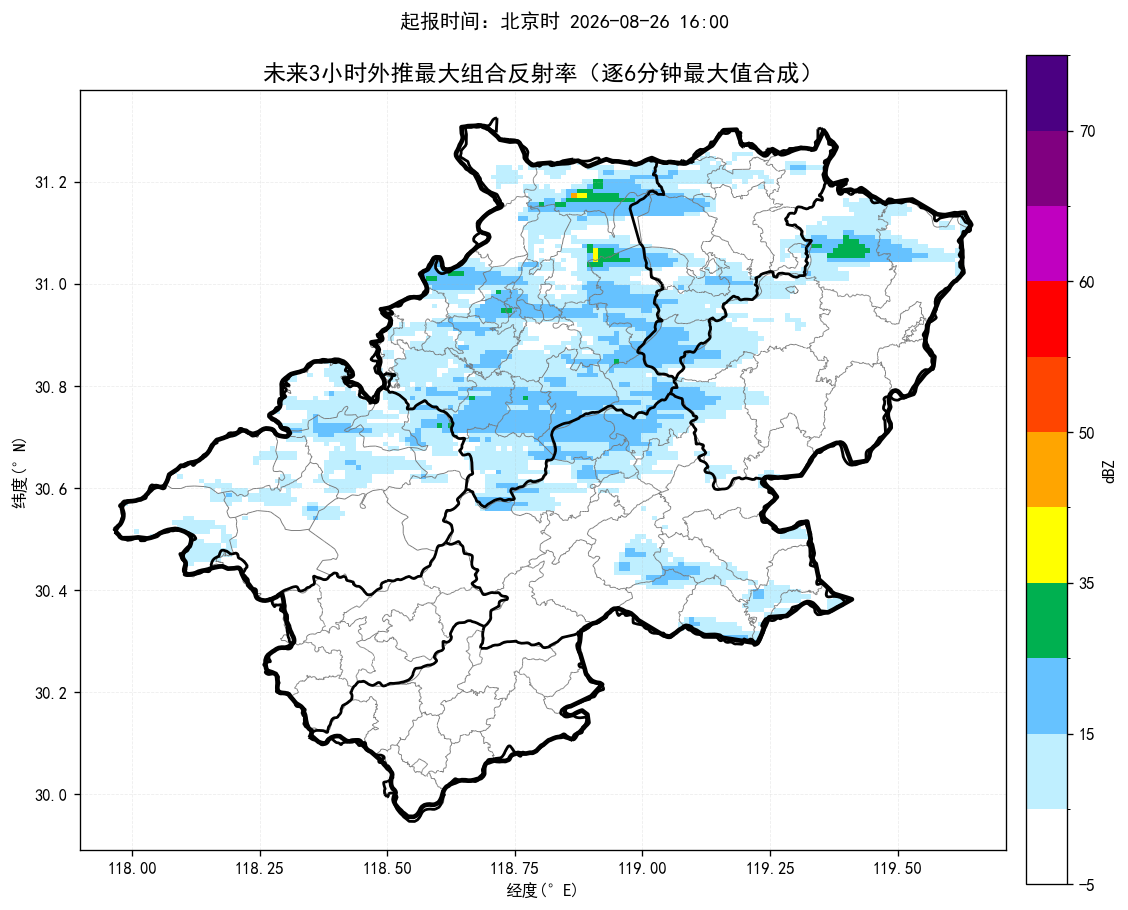
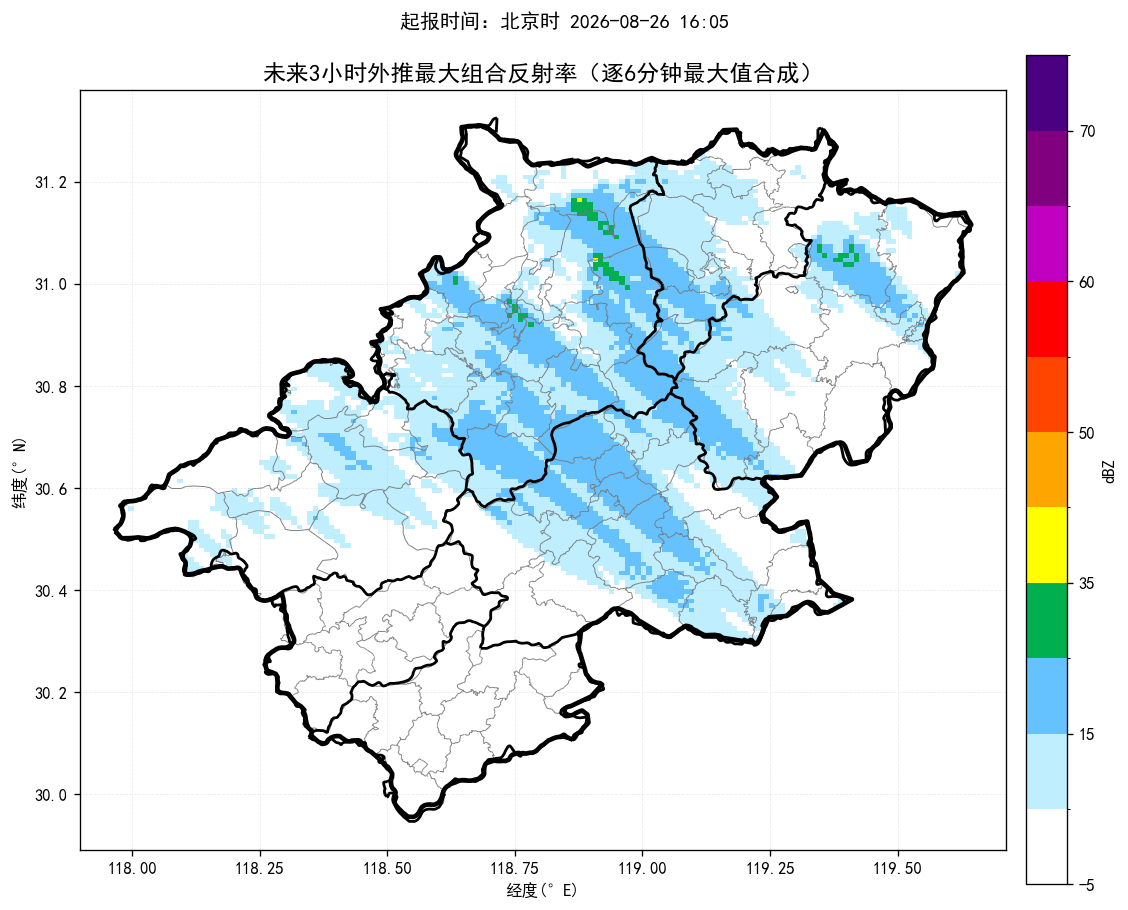
update nowcast products

Changed region(s): [[0.1551, 0.1538, 0.8688, 0.7077], [0.6826, 0.5846, 0.7137, 0.6154], [0.6826, 0.1538, 0.7137, 0.1846]]

diff --git a/index.html b/index.html
@@ -14,14 +14,14 @@ img.product{display:block;width:100%;height:auto;margin:10px auto 26px;border:1p
 .footer{font-size:13px;color:#777;text-align:center;margin-top:30px}
 @media(max-width:700px){.sheet{margin:0;padding:18px 15px}.alert-title{font-size:22px}.county-line{font-size:17px}.prob{font-size:18px}}
 </style></head><body><main class="sheet">
-<div class="time">起报时间：北京时 2026-08-26 16:00</div>
+<div class="time">起报时间：北京时 2026-08-26 16:05</div>
 <div class="alert-title">未来一小时降水量超过 20 毫米的乡镇：</div><div class="county-line">无</div>
 <div class="alert-title">未来三小时降水量超过 50 毫米的乡镇：</div><div class="county-line">无</div>
 <div class="alert-title">未来三小时雷暴大风（组合反射率 > 55 dBZ）的乡镇：</div><div class="county-line">无</div>
-<div class="prob">最大降水量概率预估：宣城市范围内未来三小时降水偏小，最大预报约4.8毫米，暂不进行50/80/100毫米概率预估。</div>
-<div class="section-title">未来降水预报图：</div><img class="product auto-refresh-product" data-src="短临降水预报.png" src="短临降水预报.png?v=20260826160611" alt="未来降水预报图">
-<div class="section-title">未来三小时组合反射率图：</div><img class="product auto-refresh-product" data-src="未来3小时组合反射率.png" src="未来3小时组合反射率.png?v=20260826160611" alt="未来三小时组合反射率图">
-<div class="section-title">未来三小时雷暴大风图：</div><img class="product auto-refresh-product" data-src="未来3小时雷暴大风.png" src="未来3小时雷暴大风.png?v=20260826160611" alt="未来三小时雷暴大风图">
+<div class="prob">最大降水量概率预估：宣城市范围内未来三小时降水偏小，最大预报约1.2毫米，暂不进行50/80/100毫米概率预估。</div>
+<div class="section-title">未来降水预报图：</div><img class="product auto-refresh-product" data-src="短临降水预报.png" src="短临降水预报.png?v=20260826161150" alt="未来降水预报图">
+<div class="section-title">未来三小时组合反射率图：</div><img class="product auto-refresh-product" data-src="未来3小时组合反射率.png" src="未来3小时组合反射率.png?v=20260826161150" alt="未来三小时组合反射率图">
+<div class="section-title">未来三小时雷暴大风图：</div><img class="product auto-refresh-product" data-src="未来3小时雷暴大风.png" src="未来3小时雷暴大风.png?v=20260826161150" alt="未来三小时雷暴大风图">
 <div class="footer">三张产品图每 60 秒自动刷新一次；每次请求自动附加新的URL参数以绕过缓存。</div>
 <script>
 (function() {
